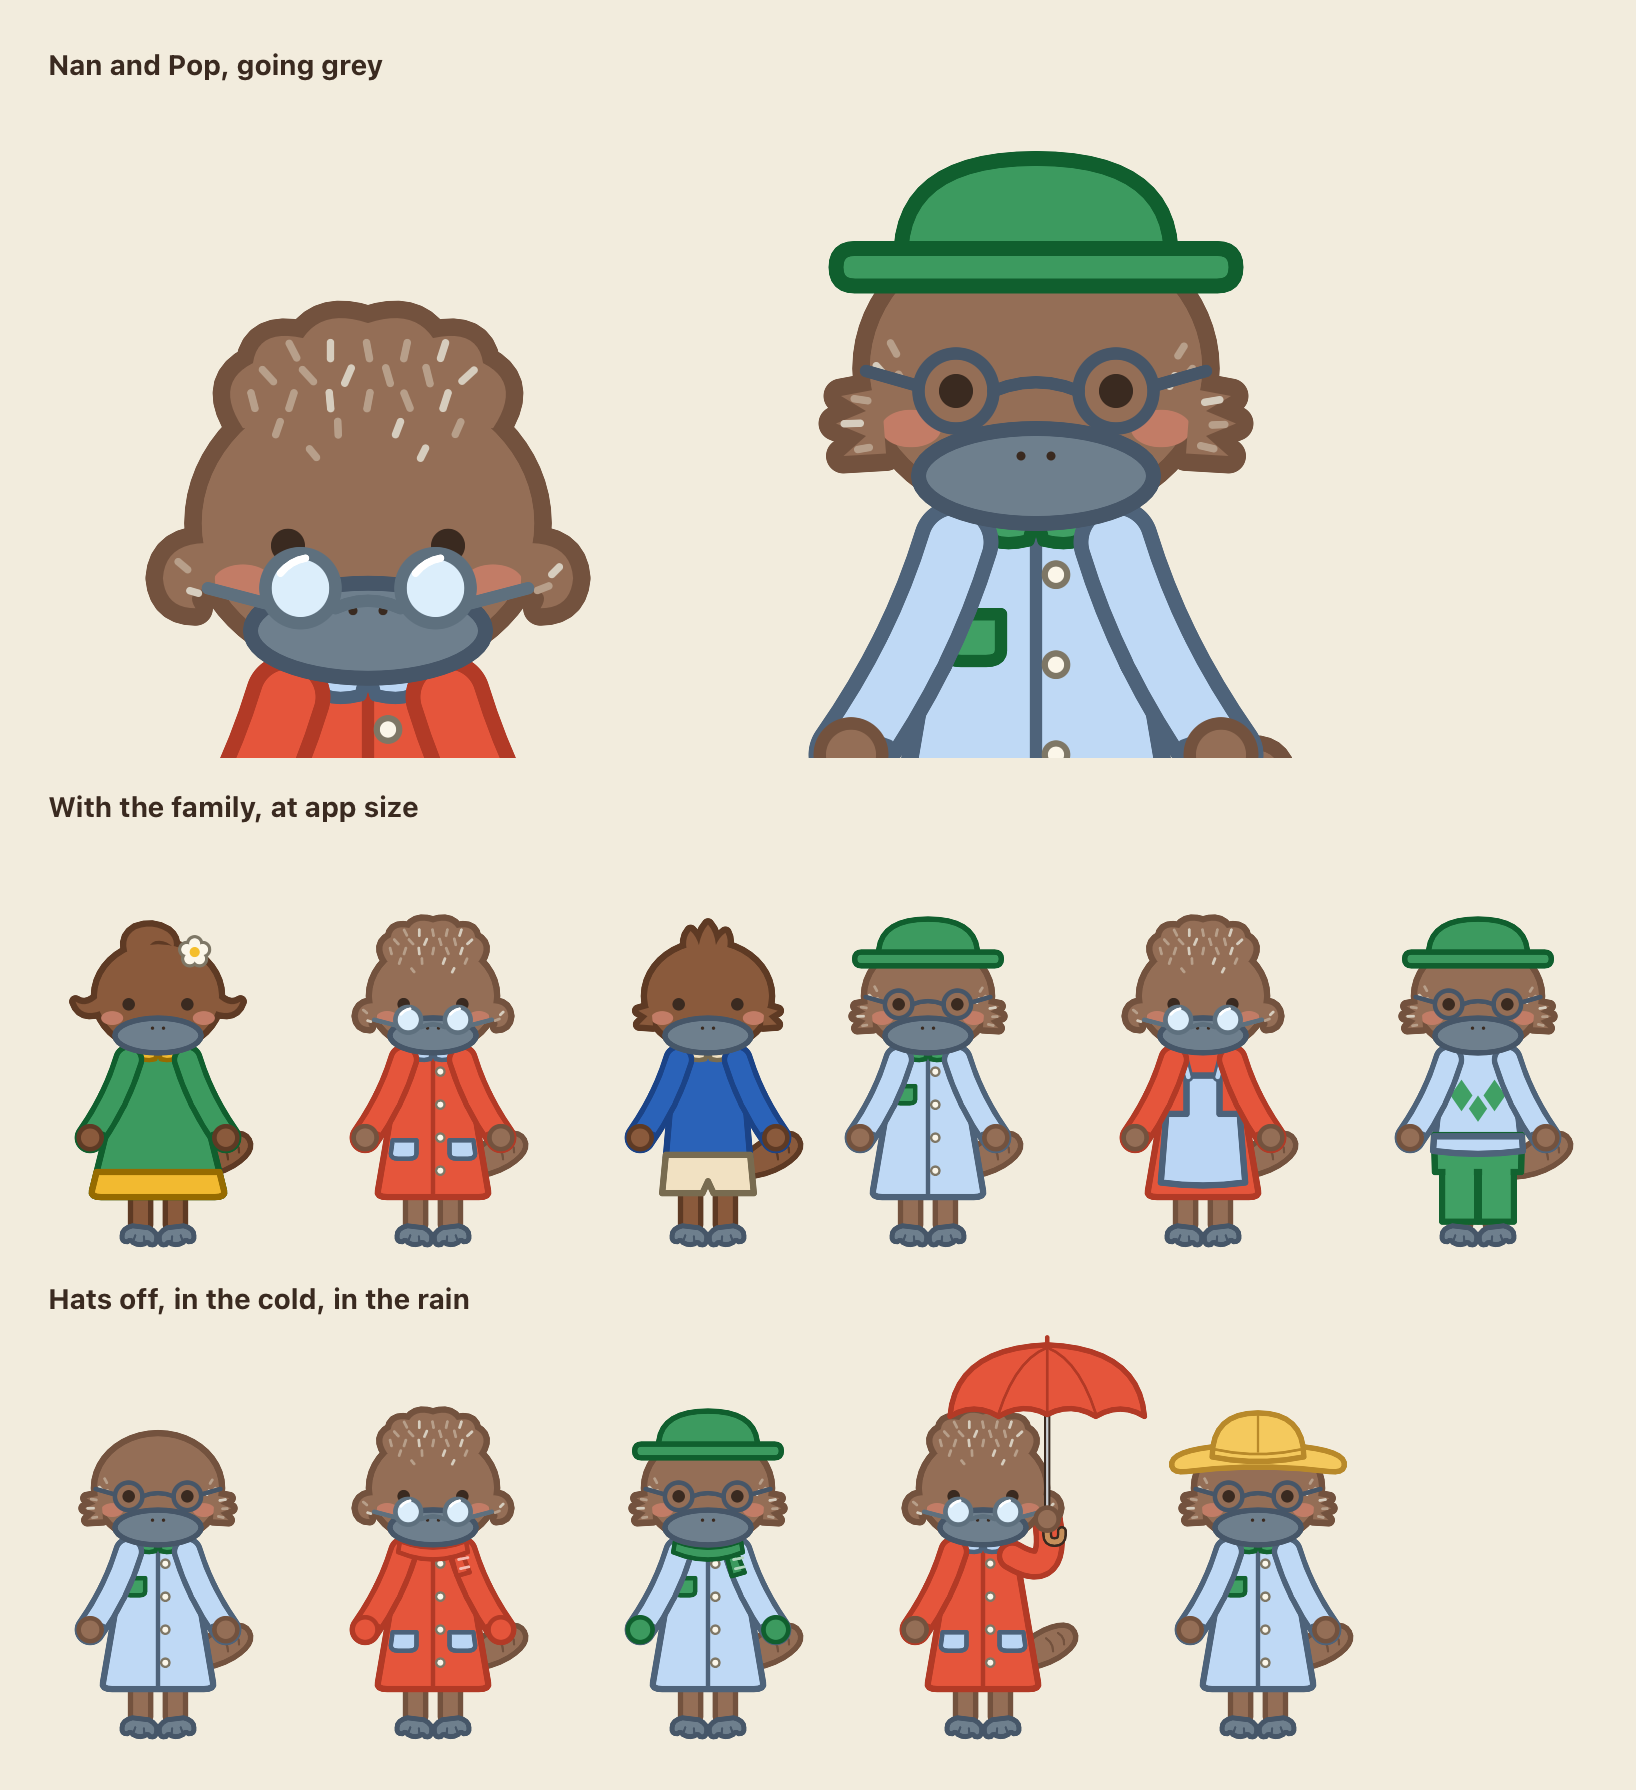
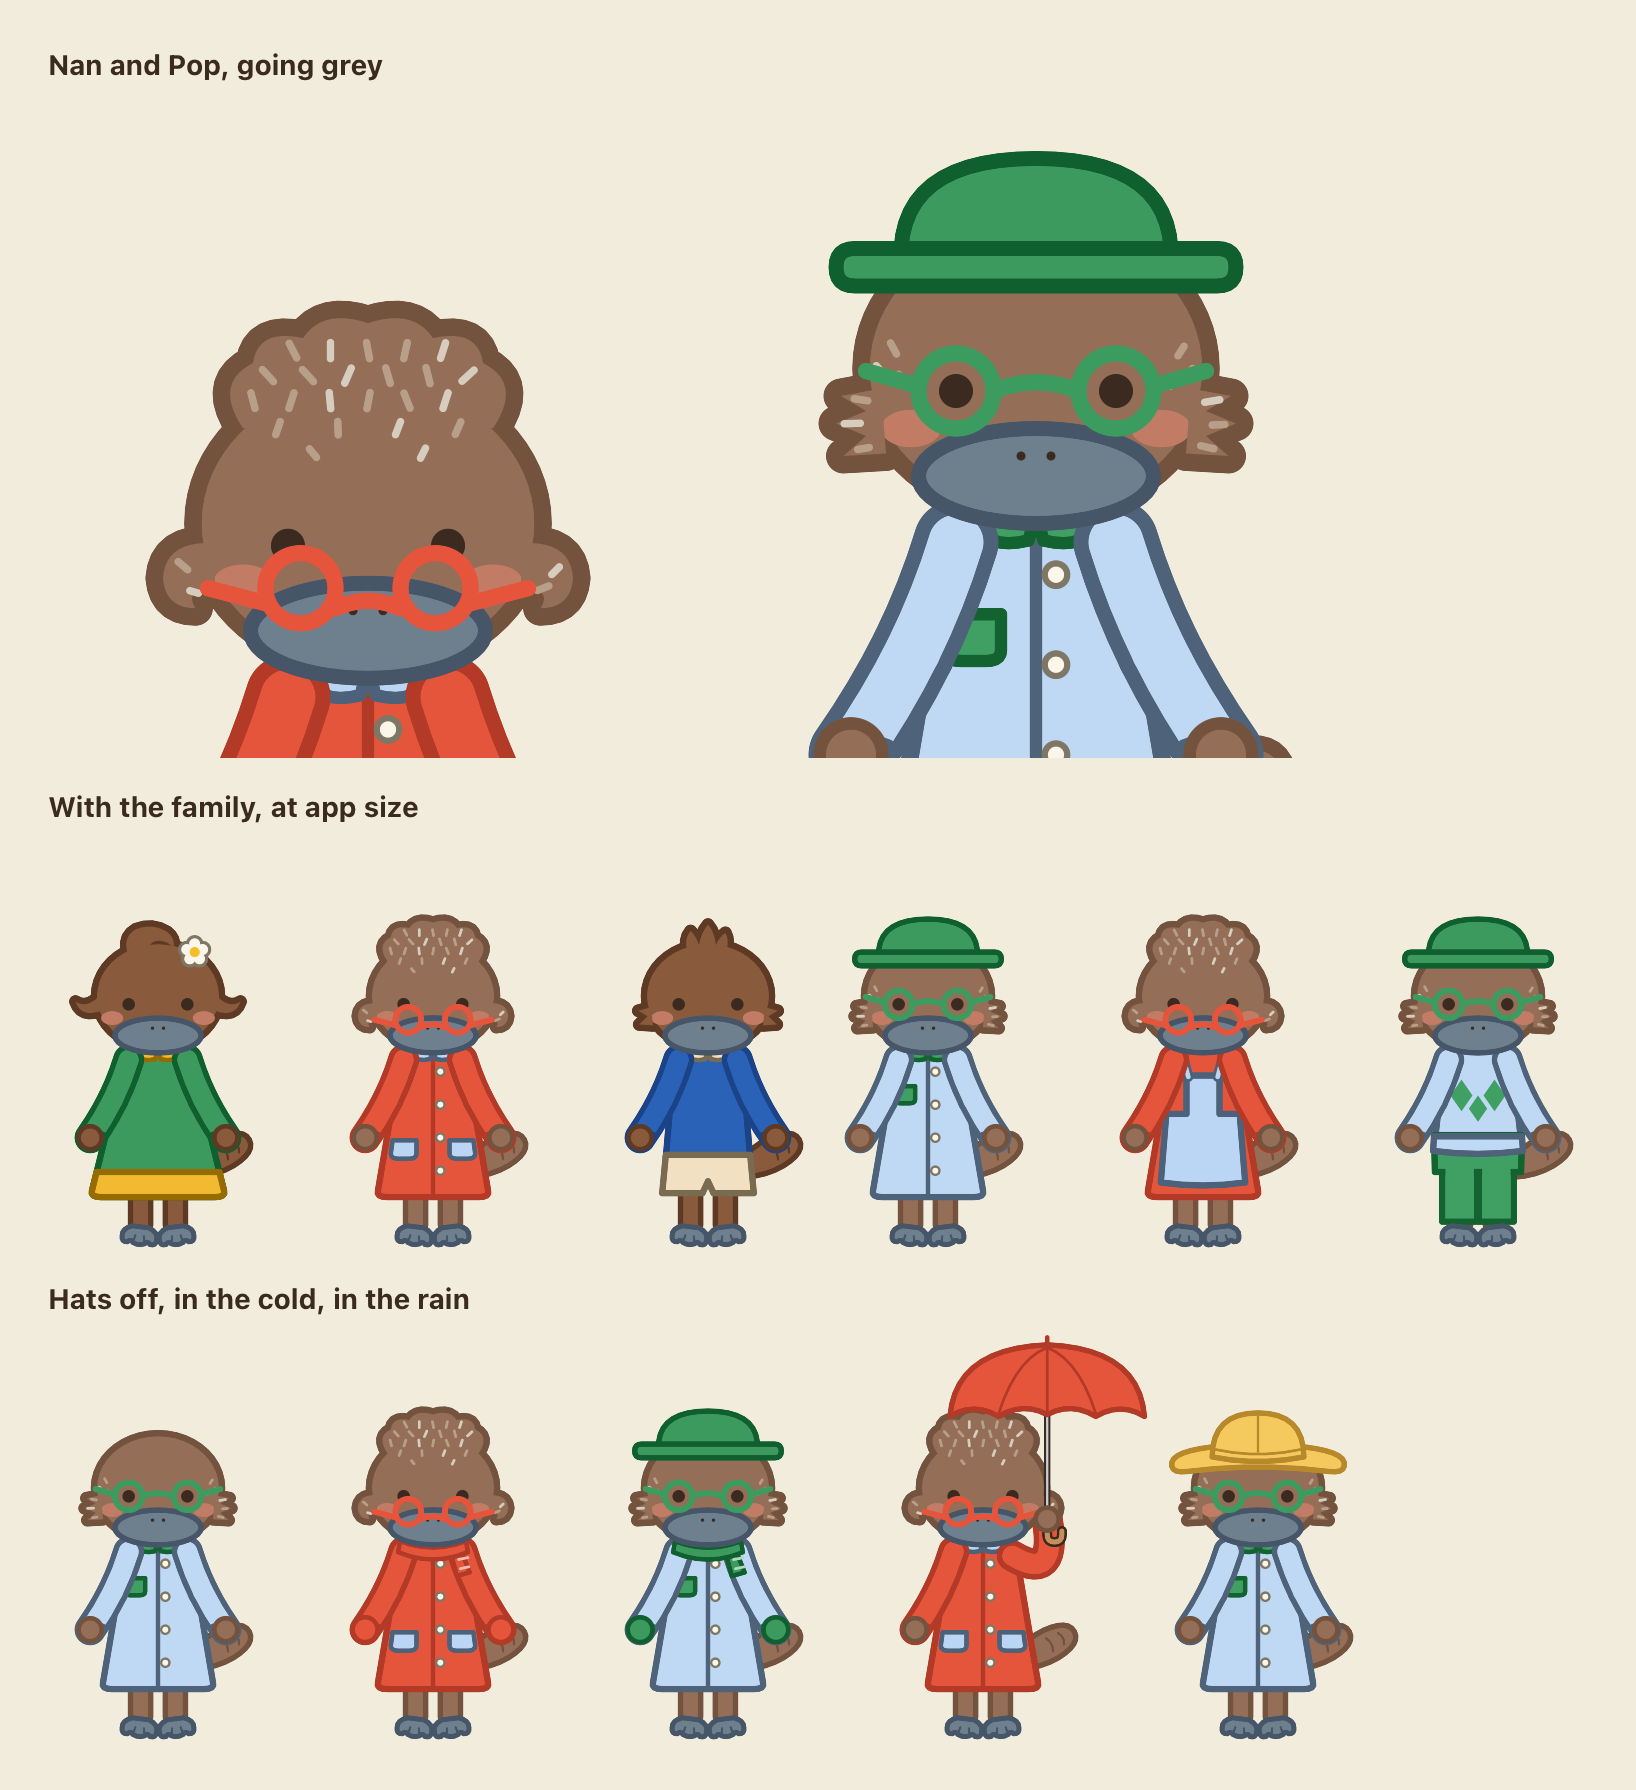
Nan's and Pop's glasses: round, red and green, no glass; sunglasses styles sheet

diff --git a/app/Puggle/Features/Family/RefinementSheets.swift b/app/Puggle/Features/Family/RefinementSheets.swift
@@ -103,6 +103,12 @@ enum RefinementSheets {
             case "cat":
                 let o = out
                 return Rig.Shape(kind: "path", d: "M\(n(x - o * 13)) \(n(y - 8)) L\(n(x + o * 8)) \(n(y - 10)) L\(n(x + o * 19)) \(n(y - 15)) Q\(n(x + o * 19)) \(n(y + 8)) \(n(x + o * 6)) \(n(y + 11)) L\(n(x - o * 6)) \(n(y + 11)) Q\(n(x - o * 15)) \(n(y + 9)) \(n(x - o * 13)) \(n(y - 8)) Z")
+            case "aviator":
+                // A teardrop: flat across the top, drooping towards the cheek.
+                let o = out
+                return Rig.Shape(kind: "path", d: "M\(n(x - o * 14)) \(n(y - 9)) Q\(n(x)) \(n(y - 12)) \(n(x + o * 16)) \(n(y - 9)) Q\(n(x + o * 19)) \(n(y + 6)) \(n(x + o * 5)) \(n(y + 14)) Q\(n(x - o * 11)) \(n(y + 15)) \(n(x - o * 14)) \(n(y - 9)) Z")
+            case "heart":
+                return Rig.Shape(kind: "path", d: "M\(n(x)) \(n(y + 13)) C\(n(x - 22)) \(n(y - 1)) \(n(x - 11)) \(n(y - 17)) \(n(x)) \(n(y - 6)) C\(n(x + 11)) \(n(y - 17)) \(n(x + 22)) \(n(y - 1)) \(n(x)) \(n(y + 13)) Z")
             default: return Rig.Shape(kind: "ellipse", x: x, y: y, rx: 14.5, ry: 14.5)
             }
         }
@@ -200,6 +206,53 @@ enum RefinementSheets {
             line("2 again, in the heat: with sun hats and zinc", 1, outfit: "sun")
         }
         save(sunnies, as: "sunglasses.png")
+
+        // Styles of sunglasses, all with lenses you cannot see through: dark, or a flat silver mirror with two glints.
+        let night = "#1B2440", mirror = "#C5D2DE", glint = "#F3F7FA", metal = "#8491A0"
+        struct Style { let name: String; let shape: String; let lens: String; let frame: String?; let wide: Double; let shine: Bool; let twin: Bool }
+        let styles = [
+            Style(name: "Round, dark", shape: "round", lens: night, frame: nil, wide: 5.5, shine: false, twin: false),
+            Style(name: "Aviator, mirror", shape: "aviator", lens: mirror, frame: metal, wide: 3.5, shine: true, twin: true),
+            Style(name: "Aviator, dark", shape: "aviator", lens: night, frame: "#D9A441", wide: 3.5, shine: false, twin: true),
+            Style(name: "Round, mirror", shape: "round", lens: mirror, frame: nil, wide: 5.5, shine: true, twin: false),
+            Style(name: "Soft square, dark", shape: "square", lens: night, frame: nil, wide: 5.5, shine: false, twin: false),
+            Style(name: "Hearts, dark", shape: "heart", lens: night, frame: nil, wide: 5, shine: false, twin: false),
+        ]
+        func styled(_ name: String, _ accent: String, _ style: Style) -> Rig? {
+            guard var rig = Rig.load(name), let eye = rig.parts.first(where: { $0.id == "eye-left" }) else { return nil }
+            let x = Double(eye.pivot[0]), y = Double(eye.pivot[1]) + (style.shape == "aviator" ? 2 : 0), other = 240 - x
+            var shapes = frames(style.shape, x: x, y: y, colour: style.frame ?? accent, glass: style.lens, wide: style.wide)
+            if style.twin {
+                // The second bar across the top of an aviator's bridge.
+                shapes.append(Rig.Shape(kind: "path", d: "M\(n(x + 13)) \(n(y - 8)) L\(n(other - 13)) \(n(y - 8))", stroke: dark, tint: style.frame ?? accent, width: style.wide, cap: "round"))
+            }
+            if style.shine {
+                for cx in [x, other] {
+                    shapes.append(Rig.Shape(kind: "path", d: "M\(n(cx - 8)) \(n(y + 2)) L\(n(cx)) \(n(y - 7))", stroke: glint, width: 3.2, cap: "round"))
+                    shapes.append(Rig.Shape(kind: "path", d: "M\(n(cx - 1)) \(n(y + 5)) L\(n(cx + 5)) \(n(y - 2))", stroke: glint, width: 2.2, cap: "round"))
+                }
+            }
+            let last = rig.parts.lastIndex(where: { $0.id.hasPrefix("eye") }) ?? 0
+            rig.parts.insert(Rig.Part(id: "sunnies", parent: "head", pivot: [120, CGFloat(y)], shapes: shapes), at: last + 1)
+            return rig
+        }
+        let wearers: [(String, String)] = [("puggle", "#E5553B"), ("kip", "#2A62B8"), ("digby", "#F4BE2C"), ("sunny", "#E5553B"), ("quill", "#3C9A5F"), ("mum", "#F4BE2C"), ("dad", "#3C9A5F"), ("pebble", "#F4BE2C")]
+        let looks = VStack(alignment: .leading, spacing: 10) {
+            ForEach(styles.indices, id: \.self) { i in
+                row(styles[i].name) {
+                    HStack(alignment: .bottom, spacing: 0) {
+                        ForEach(wearers, id: \.0) { who in
+                            if let rig = styled(who.0, who.1, styles[i]) {
+                                RigFrame(rig: rig, states: [:], face: nil)
+                                    .frame(width: 128 * (rig.size[0] + 2 * (rig.sideroom ?? 0)) / 240, height: 128 * rig.size[1] / 240)
+                                    .frame(height: 128 * 300 / 240 + 6, alignment: .top).clipped()
+                            }
+                        }
+                    }
+                }
+            }
+        }
+        save(looks, as: "sunglasses-styles.png")
     }
 
     /// Nan and Pop as built: warmer, lighter fur with a lighter line, and grey dashes scattered through their hair.

diff --git a/app/tools/make_cast_rigs.py b/app/tools/make_cast_rigs.py
@@ -944,6 +944,23 @@ def older(name, parts):
     return parts
 
 
+def spectacles(name, parts):
+    """Nan's glasses are red and Pop's are green, round, with no glass in them and a frame thick enough to read when small.
+    The colours are one step off the brand's red and green (#E5543B, #3C9B5F), so that swapping a garment's colour
+    for another never repaints the glasses with it."""
+    colour = {'nan': '#E5543B', 'pop': '#3C9B5F'}[name]
+    glasses = next(p for p in parts if p['id'] == 'head-2')
+    kept = []
+    for shape in glasses['shapes']:
+        if shape.get('stroke', '').upper() == '#FFFFFF': continue   # the shine on the glass
+        shape.pop('fill', None)
+        shape['tint'] = colour
+        shape['width'] = 6.5
+        kept.append(shape)
+    glasses['shapes'] = kept
+    return parts
+
+
 def build(name, svg, height, about, shade, moves, puggle, variant=''):
     grown = height > 400
     if grown:
@@ -1088,6 +1105,7 @@ def build(name, svg, height, about, shade, moves, puggle, variant=''):
     parts = dress_for_weather(name, parts, puggle, shade)
     parts = finish_hats(name, parts)
     if name in ('nan', 'pop'): parts = older(name, parts)
+    if name in ('nan', 'pop'): parts = spectacles(name, parts)
     # Arms that bend at the elbow, and a book to hold. Pebble is too small to read, and has his bottle.
     parts = bend_arms.bend(parts)
     if name != 'pebble': parts = bend_arms.hold(parts, bend_arms.book(parts))

diff --git a/docs/baby-tracker-spec.md b/docs/baby-tracker-spec.md
@@ -944,3 +944,7 @@ Privacy and technical
 **Glasses and sunglasses (2026-11-14, open).** Tom: Nan's glasses could have no glass in them (Bluey's Nana has none), in red, with Pop's in green; try other shapes; and sunglasses that anyone could wear in summer or hot scenes and in the books. Mocked up, nothing built:
 - `docs/previews/glasses-frames.png`: Nan in red with no glass (A round, B half-moon, C oval, D cat-eye, E soft square) and Pop in green (A round, B half-moon, C oval, E soft square, and A with a thicker frame). Thin frames nearly vanish at app size.
 - `docs/previews/sunglasses.png`: three ways, because the rule is that glasses never hide the eyes and the eyes carry the feeling: 1 dark lenses (eyes hidden), 2 tinted lenses with the eyes showing through (drawn under the eyes), 3 pushed up on the forehead. Frames in each character's own accent colour.
+
+**Nan's and Pop's glasses (Tom, 2026-11-14, built).** Round, with no glass in them, in a frame thick enough to read when small (6.5): Nan's red, Pop's green. The colours are one step off the brand's (`#E5543B`, `#3C9B5F`) so that a garment's colour swap never repaints the glasses. `spectacles` in `app/tools/make_cast_rigs.py`. Read from Tom's "I like A": if he meant another shape, the sheet is `docs/previews/glasses-frames.png`.
+
+**Sunglasses styles (2026-11-14, open).** Tom prefers dark lenses to tinted ("the tinted is a bit odd") and asked for other styles, such as aviators with a mirror finish. Six on `docs/previews/sunglasses-styles.png`, across eight of the cast: round dark, aviator mirror (thin metal frame, flat silver lens with two glints), aviator dark, round mirror, soft square dark, hearts dark. Nothing built. Dark and mirrored lenses both hide the eyes, which sets aside "glasses never hide the eyes" for sunglasses; to settle: when they are worn and whether she takes them off to react.
